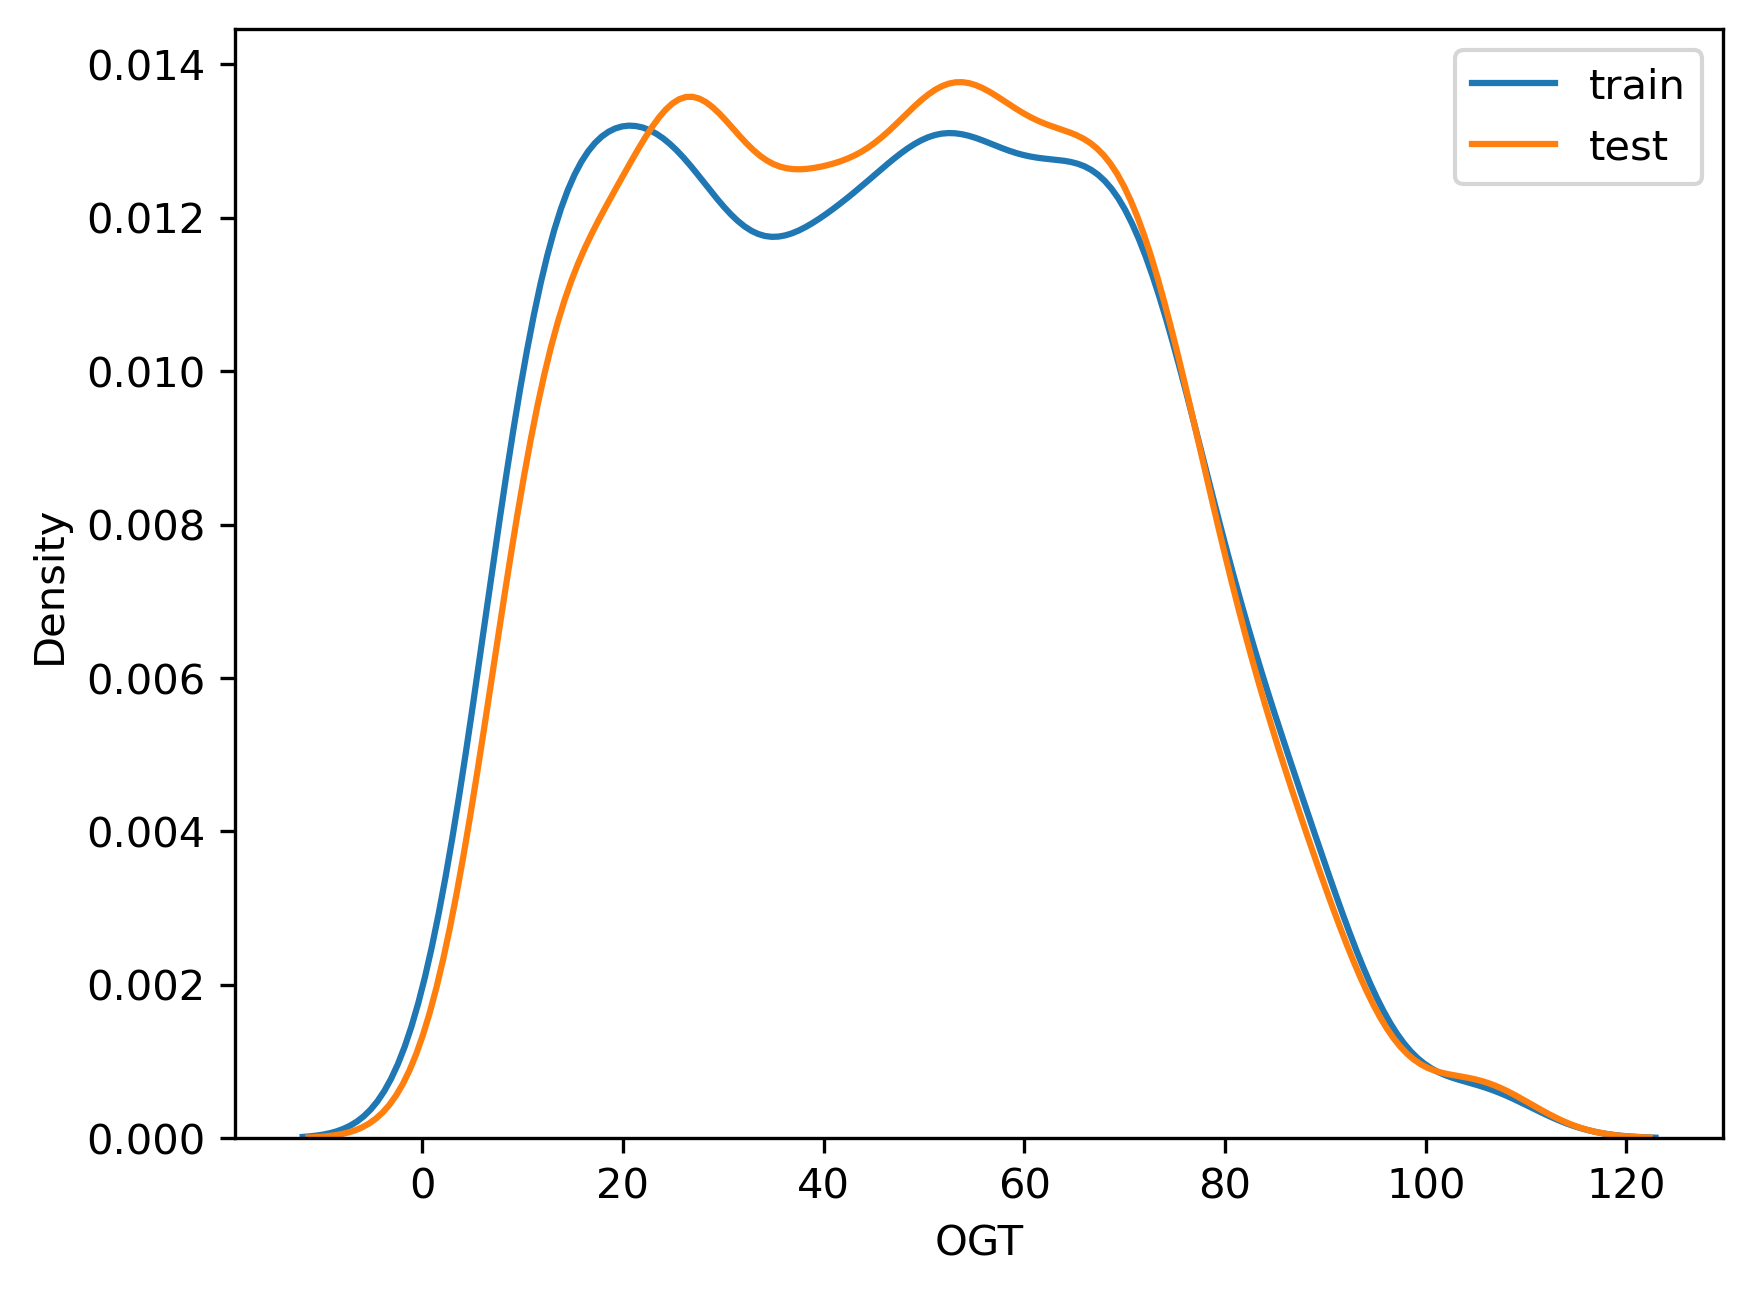
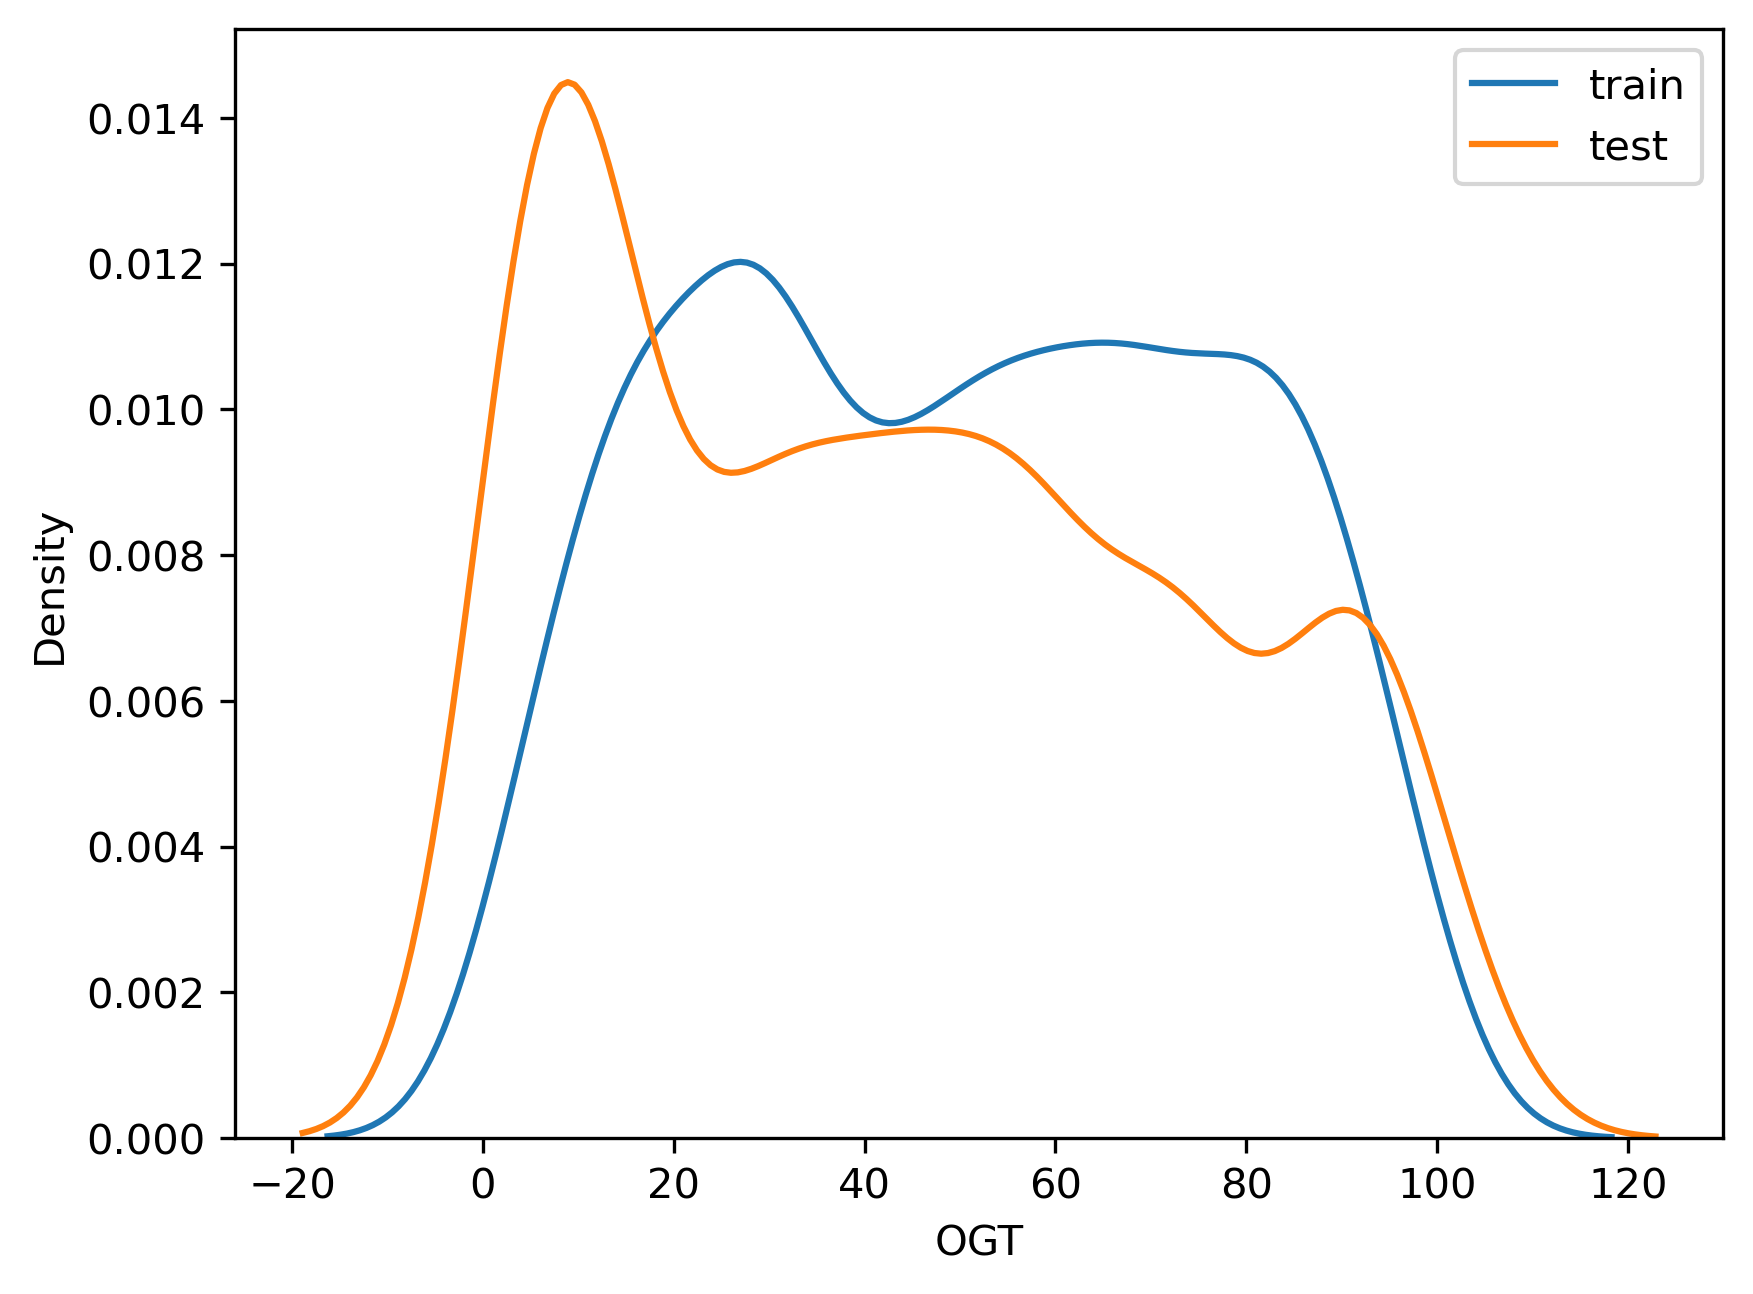
dvc: commit experiment ccefd3471c51ddd814428973cd73da1780d5adf250652758997217a463b800dc

diff --git a/pipeline/ogt_protein_regressor_data_prep.py b/pipeline/ogt_protein_regressor_data_prep.py
@@ -1,7 +1,7 @@
 """Trains and tests a regressor of OGT.
 
 Parameters:
-- `split_type`: 'random', 'taxa_id', int
+- `split_type`: 'random', 'taxaid', int
   - random: randomly splits proteins into train and dev
   - taxa_id: keeps proteins from a particular organism together
   - int: clusters taxa by taxonomy of a particular level, 1 is kingdom, 2 is phylum, etc. Note that this may have errors, as it is based on taxonomy specified in NCBI which sometimes has ambiquity
@@ -96,23 +96,18 @@ if __name__ == '__main__':
     # get the data
     conn = ddb.connect("./data/database")
     # create indexes first
-    conn.execute("CREATE UNIQUE INDEX taxa_index ON taxa (taxa_index)")
-    conn.commit()
-    conn.execute("CREATE INDEX taxa_index_foreign ON proteins (taxa_index)")
-    conn.commit()
     select_statement = f"""SELECT 
-            proteins.protein_int_index,
+            proteins.pid,
             proteins.protein_seq,
-            taxa.ogt,
-            taxa.taxa_index,
-            taxa.taxonomy
+            taxa.temperature,
+            taxa.taxid,
         FROM proteins
-        INNER JOIN taxa ON (proteins.taxa_index=taxa.taxa_index)
-        WHERE proteins.protein_len<{params['max_protein_len']}
-        AND proteins.protein_len>{params['min_protein_len']}
-        AND taxa.ogt IS NOT NULL"""
+        INNER JOIN taxa ON (proteins.taxid=taxa.taxid)
+        WHERE LEN(proteins.protein_seq)<={params['max_protein_len']}
+        AND LEN(proteins.protein_seq)>{params['min_protein_len']}
+        AND taxa.temperature IS NOT NULL"""
     if params['dev_sample_init_data']:
-        select_statement = select_statement + " USING SAMPLE 100000"
+        select_statement = select_statement + f" USING SAMPLE {params['dev_sample_init_data']}"
     ds = datasets.Dataset.from_sql(
         select_statement,
         config_name='test',
@@ -125,7 +120,7 @@ if __name__ == '__main__':
     if params['balancing']['do']:
         ds, og_bin_sizes, new_bin_sizes, bin_edges = data_utils.regression_bin_undersampling(
             dataset=ds,
-            label='ogt',
+            label='temperature',
             num_bins=params['balancing']['num_bins'],
             max_bin_size=params['balancing']['max_bin_size'],
             batch_size=ds_batch_params['batch_size'],
@@ -148,11 +143,12 @@ if __name__ == '__main__':
         )
     else:
         pass
-
+    logger.info(f"Dataset has {len(ds)} points after deduplication.")
     # rename OG
-    ds = ds.rename_column('ogt', 'labels')
+    ds = ds.rename_column('temperature', 'labels')
     
     # split the data
+    ds = ds.shuffle()
     splitter = data_utils.DataSplitter(ds)
     data_dict = splitter.split(splittype=params['split_type'], frac=params['train_test_frac'])
     data_dict = data_dict.shuffle()
@@ -160,11 +156,11 @@ if __name__ == '__main__':
 
     # compute some statistics
     # take a small sample
-    if len(data_dict['train']) > 1000:
+    if len(data_dict['train']) > 5000:
         train_sample = data_dict['train'].select(range(1000))
     else:
         train_sample = data_dict['train']
-    if len(data_dict['test']) > 1000:
+    if len(data_dict['test']) > 5000:
         test_sample = data_dict['test'].select(range(1000))
     else:    
         test_sample = data_dict['test']
@@ -179,23 +175,25 @@ if __name__ == '__main__':
     plt.xlabel("OGT")
     plt.savefig('./data/ogt_protein_regressor/data_plots/ogt_kde.png', dpi=300, bbox_inches='tight')
 
-    train_mean, train_std = np.mean(data_dict['train']['labels']), np.std(data_dict['train']['labels'])
-    test_mean, test_std = np.mean(data_dict['test']['labels']), np.std(data_dict['test']['labels'])
-    logger.info(f"Train apx OGT mean, std: {(train_mean, train_std)}")
-    logger.info(f"Test apx OGT mean, std: {(test_mean, test_std)}")
+    train_mean, train_std = float(np.mean(data_dict['train']['labels'])), float(np.std(data_dict['train']['labels']))
+    test_mean, test_std = float(np.mean(data_dict['test']['labels'])), float(np.std(data_dict['test']['labels']))
+    logger.info(f"Train OGT mean, std: {(train_mean, train_std)}")
+    logger.info(f"Test OGT mean, std: {(test_mean, test_std)}")
 
     # standardize the label
     def standardize_labels(examples):
-        examples['labels'] = list((np.array(examples['labels']) - train_mean) / train_std)
+        examples['labels'] = (examples['labels'] - train_mean) / train_std
         return examples
-    data_dict = data_dict.map(standardize_labels, desc='Standardizing data', **ds_batch_params)
+    data_dict = data_dict.map(standardize_labels, desc='Standardizing data', batched=False)
     # save the standardization parameters to file
     with open('./data/ogt_protein_regressor/data/standardization_params.json', 'w') as f:
         json.dump({'train_mean': train_mean, 'train_std': train_std}, f)
 
     # remove unnecessary columns
     if not params['dev_keep_columns']:
-        data_dict = data_dict.remove_columns(['protein_int_index', 'taxa_index', 'taxonomy'])
+        bad_columns = [k for k in data_dict['train'].column_names if k not in['protein_seq', 'labels']]
+        data_dict = data_dict.remove_columns(bad_columns)
+
     logger.info(f'Final datasets: {data_dict}')
     data_dict.cleanup_cache_files()
     data_dict.save_to_disk('./data/ogt_protein_regressor/data/')

diff --git a/pipeline/ogt_protein_regressor_train_evaluate.py b/pipeline/ogt_protein_regressor_train_evaluate.py
@@ -22,6 +22,7 @@ from yaml import dump as yaml_dump
 import pandas as pd
 import numpy as np
 import re
+import json
 
 import datasets
 import transformers
@@ -72,10 +73,10 @@ if __name__ == '__main__':
     # get the standardization parameters and define function to untransform labels
     with open("./data/ogt_protein_regressor/data/standardization_params.json", "r") as file:
         standardization_params = json.load(file)
-    data_mean = standardization_params['mean'].to(device)
-    data_std = standardization_params['std'].to(device)
+    data_mean = torch.tensor(standardization_params['train_mean'], dtype=torch.float).to(device)
+    data_std = torch.tensor(standardization_params['train_std'], dtype=torch.float).to(device)
     def unstandardize(predictions):
-        return (predictions*data_std) + data_mean
+        return (torch.tensor(predictions).to(device)*data_std) + data_mean
 
     # prepare the main process
     if local_rank not in [-1, 0]:
@@ -220,16 +221,21 @@ if __name__ == '__main__':
         torch.distributed.barrier() 
 
     # compute the saving and evaluation timeframe
-    n_steps_per_epoch = int(len(data_dict['train']) / params['batch_size'])
+    n_gpus = torch.cuda.device_count()
     if params['grad_accum']:
-        n_steps_per_epoch = int(n_steps_per_epoch/params['grad_accum'])
+        grad_accum = params['grad_accum']
+    else:
+        grad_accum = 1
+    total_data_per_step = params['batch_size']*grad_accum*n_gpus
+    steps_per_epoch = int(len(data_dict['train'])/total_data_per_step)
+
     if params['n_save_per_epoch'] == 0:
         n_steps_per_save = None
         save_strategy = 'no'
     else:
         save_strategy = 'steps'
-        n_steps_per_save = int(n_steps_per_epoch/params['n_save_per_epoch'])
-    logger.info(f"Saving/evaluating every {n_steps_per_save} batches of size {params['batch_size']}")
+        n_steps_per_save = int(steps_per_epoch/params['n_save_per_epoch'])
+    logger.info(f"Saving/evaluating every {n_steps_per_save} steps of size {total_data_per_step}")
     
     # ready the train
     training_args = transformers.TrainingArguments(
@@ -274,9 +280,26 @@ if __name__ == '__main__':
         spearman_val = spearman.compute(predictions=predictions, references=labels)['spearmanr']
         return {'mse': mse_val, 'mae': mae_val, 'r2': r2_val, 'spearman': spearman_val}
     
-    # set up a dvccallback
+    # set up a dvccallback and compute null model
     if local_rank in [-1, 0]:
         callbacks = [model_utils.DVCLiveCallback(live)]
+
+        def get_null_err(batch):
+            return {"pred":[0.0]*len(batch['labels']), "err": 0.0 - batch['labels']}
+        def sum_and_square_sum_err(batch):
+            return {"sum": [float(torch.sum(batch['err']))], "square_sum": [float(torch.sum(torch.square(batch['err'])))], "n": [int(torch.tensor(len(batch['err'])))]}
+        train_errs = data_dict['train'].map(get_null_err, remove_columns=data_dict['train'].column_names, batched=True)
+        null_train_sums = train_errs.map(sum_and_square_sum_err, remove_columns=train_errs.column_names, batched=True)
+        # Calculate the training mean (standardized)
+        total_sum = np.sum([batch["sum"] for batch in null_train_sums])
+        total_square_sum = np.sum([batch["square_sum"] for batch in null_train_sums])
+        n = np.sum([batch["n"] for batch in null_train_sums])
+        null_loss= total_square_sum / n
+
+        test_preds = data_dict['test'].map(get_null_err, remove_columns=data_dict['test'].column_names, batched=True)['pred'].to(device)
+
+        logger.info(f"Null model training loss: {null_loss}")
+        logger.info(f"Null model eval stats: {compute_metrics((test_preds, data_dict['test']['labels'].to(device)))}")
     else:
         callbacks = None
 

diff --git a/l2tml_utils/data_utils.py b/l2tml_utils/data_utils.py
@@ -61,7 +61,7 @@ class DataSplitter:
             # we are splitting with groups specified by this new column
             splitting_col = 'tax_at_level'
         elif splittype == 'taxid':
-            logger.info('Splitting dataset by taxa with test frac {frac}')
+            logger.info(f'Splitting dataset by taxa with test frac {frac}')
             if splitting_col is None:
                 splitting_col = 'taxid'
         else:
@@ -75,6 +75,7 @@ class DataSplitter:
             pass
         train = self.dataset.select(train_indexes)
         test = self.dataset.select(test_indexes)
+        logger.info(f"Split dataset into train: {len(train)}, test: {len(test)}")
 
         return DatasetDict({'train':train, 'test':test})
 

diff --git a/data/ogt_protein_regressor/dvclive/report.md b/data/ogt_protein_regressor/dvclive/report.md
@@ -1,0 +1,29 @@
+# DVC Report
+
+metrics.json
+
+|   loss |   learning_rate |   epoch |   eval_loss |   eval_mse |   eval_mae |   eval_r2 |   eval_spearman |   eval_runtime |   eval_samples_per_second |   eval_steps_per_second |   step |
+|--------|-----------------|---------|-------------|------------|------------|-----------|-----------------|----------------|---------------------------|-------------------------|--------|
+| 0.9836 |     4.76563e-05 |    0.09 |     1.22213 |    868.953 |    25.3843 |     0.024 |        0.643082 |        50.8396 |                   407.301 |                   2.124 |      0 |
+
+![static/eval_steps_per_second](static/eval_steps_per_second.png)
+
+![static/eval_mse](static/eval_mse.png)
+
+![static/eval_samples_per_second](static/eval_samples_per_second.png)
+
+![static/eval_runtime](static/eval_runtime.png)
+
+![static/eval_mae](static/eval_mae.png)
+
+![static/eval_loss](static/eval_loss.png)
+
+![static/eval_spearman](static/eval_spearman.png)
+
+![static/epoch](static/epoch.png)
+
+![static/loss](static/loss.png)
+
+![static/eval_r2](static/eval_r2.png)
+
+![static/learning_rate](static/learning_rate.png)
